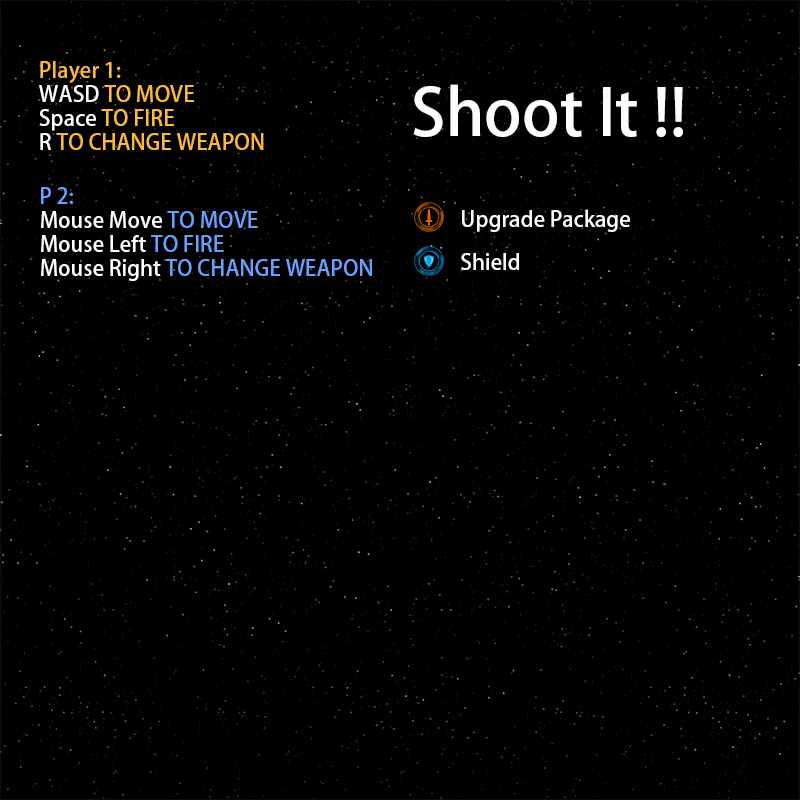
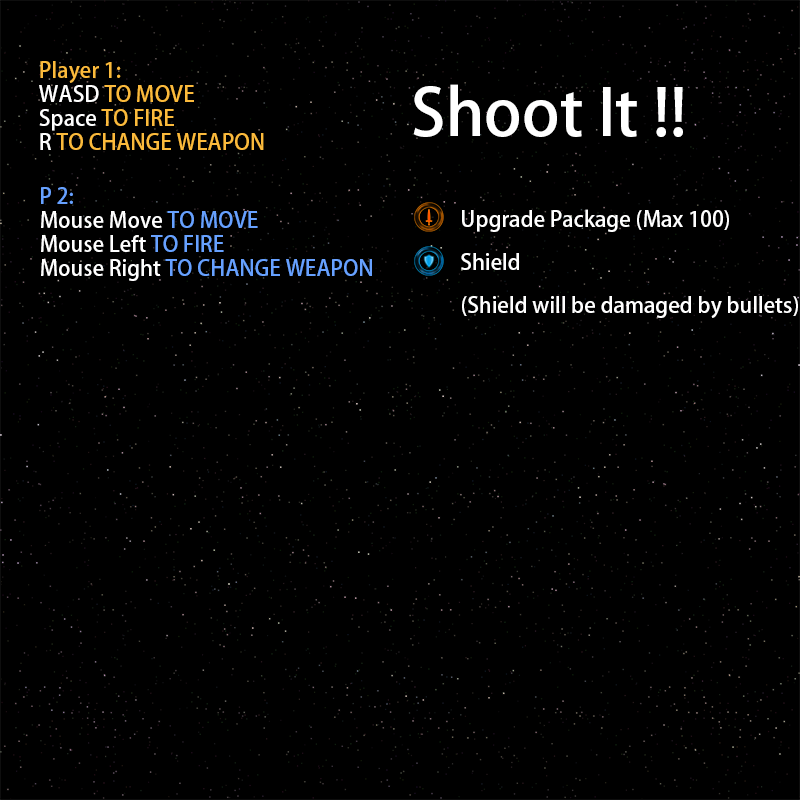
Make shield weaker than previous version. Eat bullets will reduce shield time.

Changed region(s): [[0.5625, 0.375, 1.0, 0.4062], [0.7812, 0.25, 0.9062, 0.2812]]

diff --git a/src/GameLogic.java b/src/GameLogic.java
@@ -83,7 +83,8 @@ public class GameLogic {
     private void laserLogic(PlayerObject player, EnemyObject enemy) {
         if (player.laser.isOn) {
             float height = player.laser.getCentre().getY() - enemy.getCentre().getY();
-            if (Math.abs(enemy.getCentre().getX() - player.laser.getCentre().getX()) < enemy.getWidth() / 2f
+            float widthMax = Math.max(player.laser.getWidth(), enemy.getWidth());
+            if (Math.abs(enemy.getCentre().getX() - player.laser.getCentre().getX()) < widthMax / 2f
                     && height < player.laser.getHeight() && height > 0) {
                 // Set the contact object for laser
                 enemy.reduceHealth(player.laser.getDamage());
@@ -142,8 +143,11 @@ public class GameLogic {
             // Shield immune enemy's bullets
             if (player.isShield()) {
                 // Remove bullets
-                if (width < player.getWidth() / 1.5f && height < player.getHeight() / 1.5f)
+                if (width < player.getWidth() / 1.5f && height < player.getHeight() / 1.5f){
                     world.getEBulletList().remove(eb);
+                    // shield will lose time when damaged.
+                    player.damageShield();
+                }
             } else if (width < eb.getWidth() / 2f && height < eb.getHeight() / 2f) {
                 // Then die, if there is no shield. Dying state will not remove bullets
                 world.getEBulletList().remove(eb);

diff --git a/src/gameObjects/LaserObject.java b/src/gameObjects/LaserObject.java
@@ -11,7 +11,7 @@ import java.util.concurrent.CopyOnWriteArrayList;
 public class LaserObject extends GameObject {
     public boolean isOn = false;
     private int laserLv = 1;
-    private final static int MAX_LV = 20;
+    private final static int MAX_LV = 100;
 
     public LaserObject(GameResource gameResource, int width, int height, PlayerObject player) {
         super(gameResource, width, height, null);
@@ -22,7 +22,8 @@ public class LaserObject extends GameObject {
     public void laserUpgrade() {
         if (laserLv < MAX_LV) {
             laserLv++;
-            setWidth((int)(1.08 * getWidth()));
+            if (laserLv < 20)
+                setWidth((int)(1.08 * getWidth()));
         }
     }
 

diff --git a/src/gameObjects/PlayerObject.java b/src/gameObjects/PlayerObject.java
@@ -13,7 +13,7 @@ public class PlayerObject extends GameObject {
     public WeaponTypes currentWeapon = WeaponTypes.Bullet;
     public int bulletClodDown = 0;
     private int bulletLv = 1;
-    private final static int MAX_LV = 20;
+    private final static int MAX_LV = 100;
     // Shield lasting time, Extra width with shield
     private int shieldTime = 0;
     public final static int S_EXTRA_WIDTH = 40;
@@ -77,6 +77,9 @@ public class PlayerObject extends GameObject {
 
     public void weakenShield() {
         if (shieldTime > 0) shieldTime--;
+    }
+    public void damageShield() {
+        if (shieldTime > 0) shieldTime -= 60;
     }
 
     // Death methods
